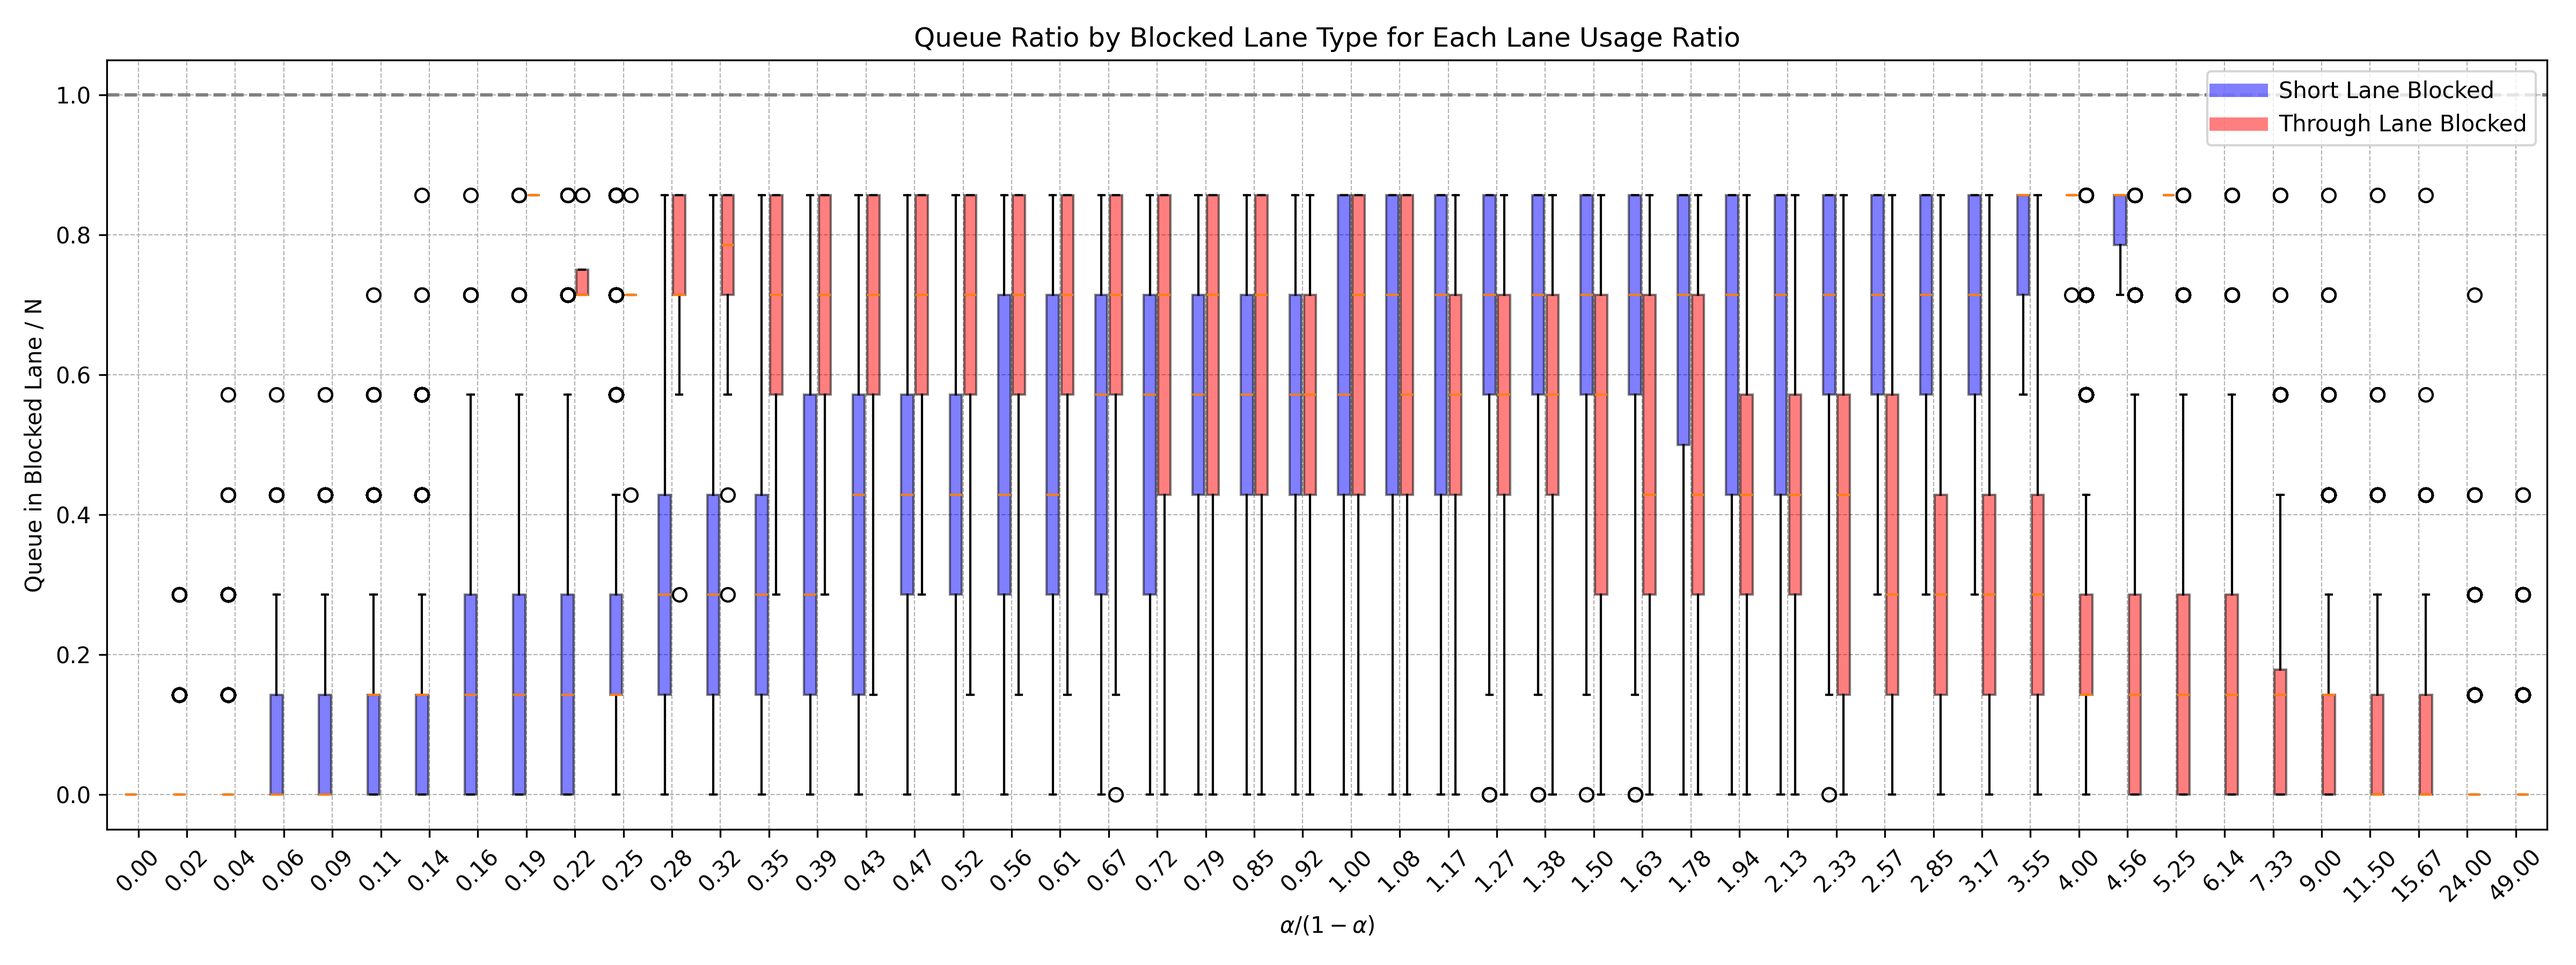
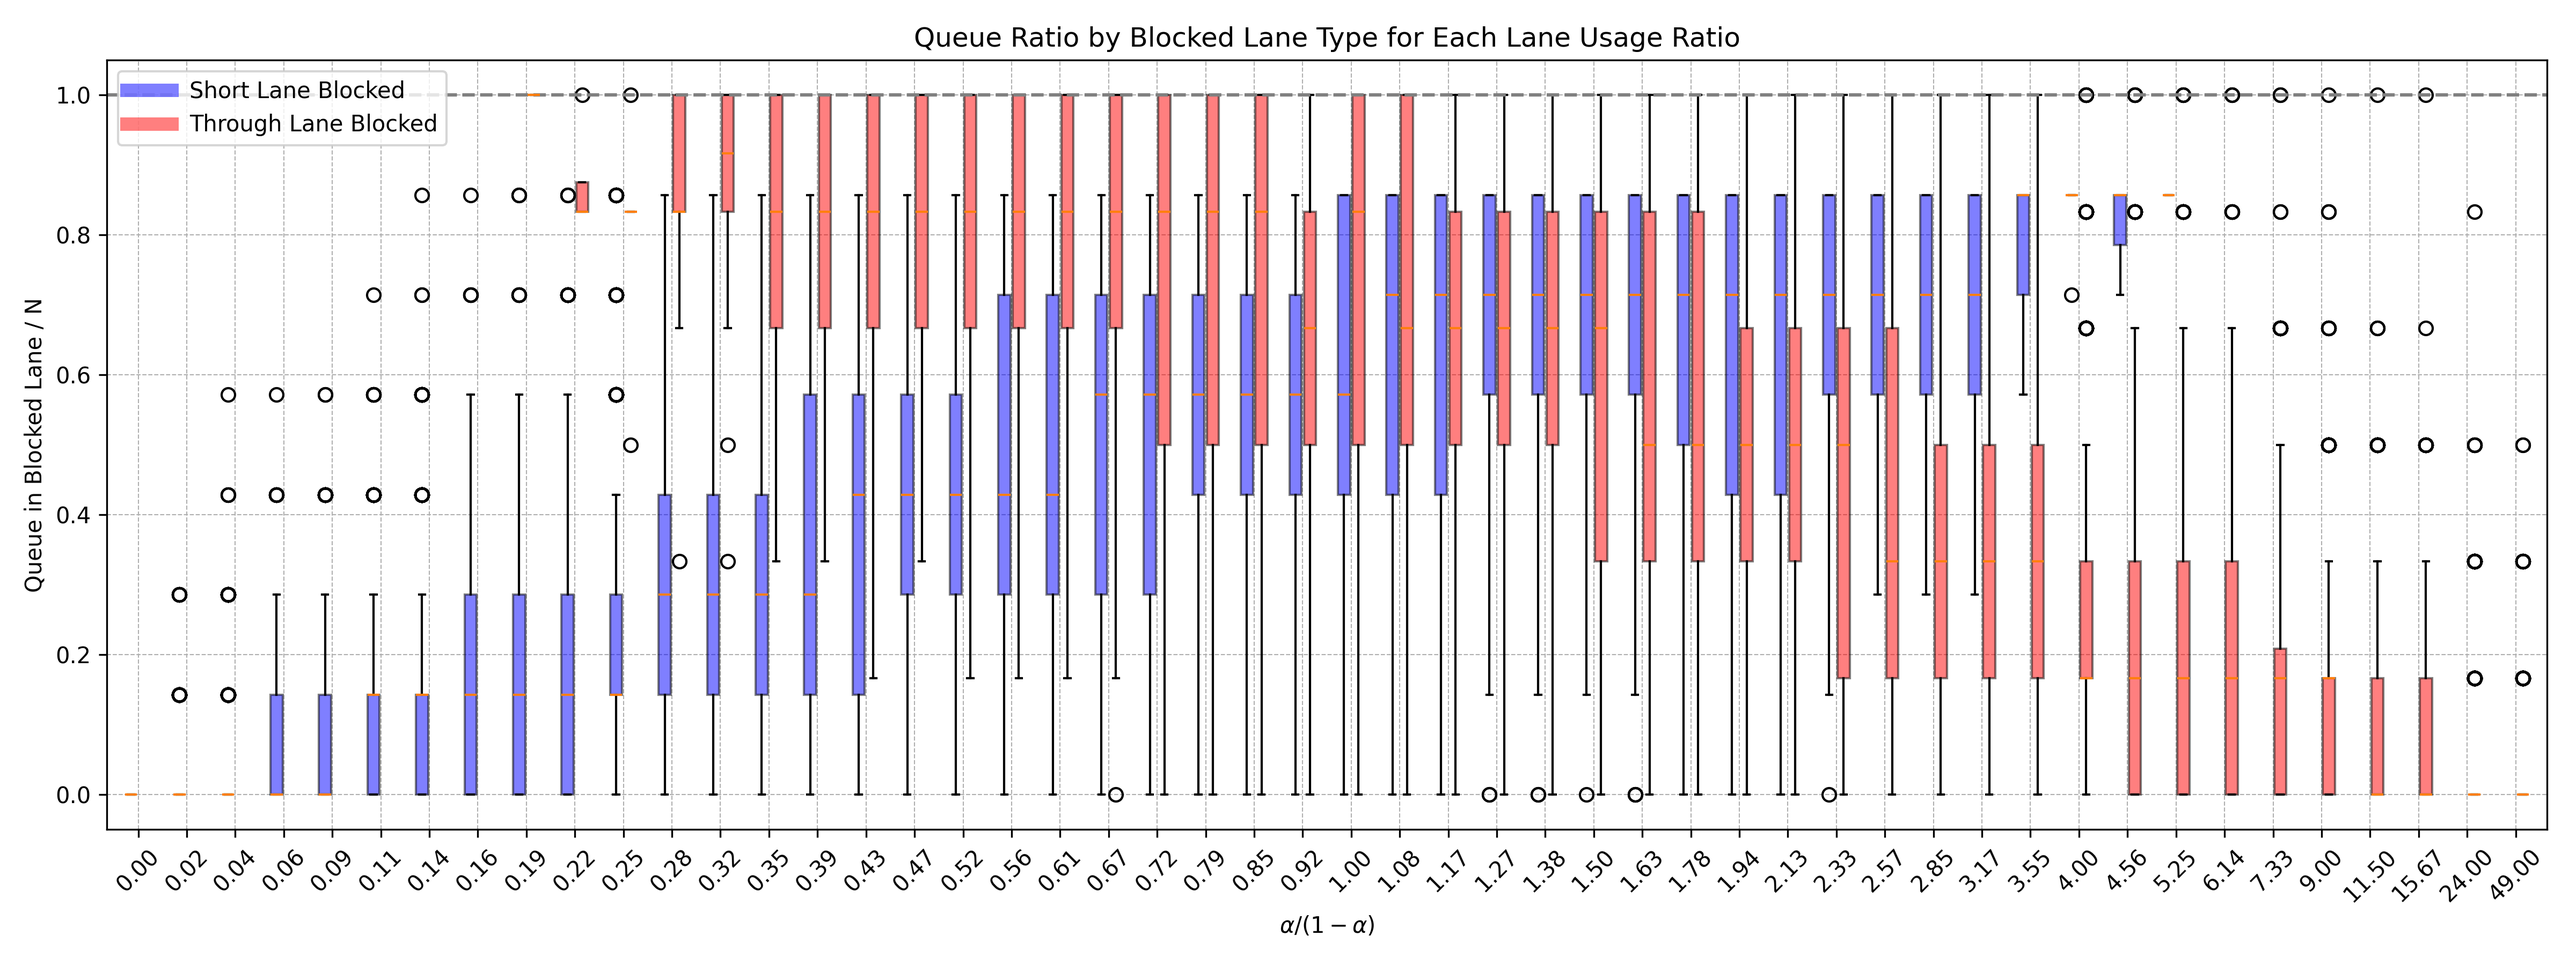
update scripts and images

diff --git a/simulation-queuing-theory.py b/simulation-queuing-theory.py
@@ -4,7 +4,7 @@ import matplotlib.pyplot as plt
 import seaborn as sns
 from collections import defaultdict
 
-def event_based_simulation(simulations=1000, v=1000, alpha=1/3, N=7, red=36, seed=None):
+def event_based_simulation(simulations=1000, v=1000, alpha=1/3, N=7, b=6, red=36, seed=None):
     if seed is not None:
         np.random.seed(seed)
 
@@ -105,6 +105,7 @@ def event_based_simulation(simulations=1000, v=1000, alpha=1/3, N=7, red=36, see
 # ==== Plotting over varying alpha ====
 alphas = np.arange(0, 1.01, 0.02)
 N = 7
+b = 6
 simulation_runs = 1000
 v = 1800
 red = 36
@@ -129,7 +130,7 @@ for alpha in alphas:
     df = df[df["BlockageOccurred"]]
 
     blue_data_flat.append([row["QueueInBlockedLane"] / N for _, row in df.iterrows() if row["BlockedLane"] == "short"])
-    red_data_flat.append([row["QueueInBlockedLane"] / N for _, row in df.iterrows() if row["BlockedLane"] == "through"])
+    red_data_flat.append([row["QueueInBlockedLane"] / b for _, row in df.iterrows() if row["BlockedLane"] == "through"])
 
     base_pos += 1
 
@@ -154,7 +155,7 @@ for alpha in alphas:
     if alpha == 1:
         continue
     ratio = round(alpha / (1 - alpha), 2)
-    df = event_based_simulation(simulations=simulation_runs, v=v, alpha=alpha, N=N, red=red, seed=42)
+    df = event_based_simulation(simulations=simulation_runs, v=v, alpha=alpha, N=N, b=b, red=red, seed=42)
     df = df[df["BlockageOccurred"]]
     for _, row in df.iterrows():
         plot_records.append({
@@ -345,7 +346,7 @@ plt.savefig('blockage_probability.png', dpi=300)
 plt.show()
 
 mean_lines = []
-Ns = range(1, 21)
+Ns = range(2, 20)
 for N in Ns:
     records = []
     for alpha in alphas:
